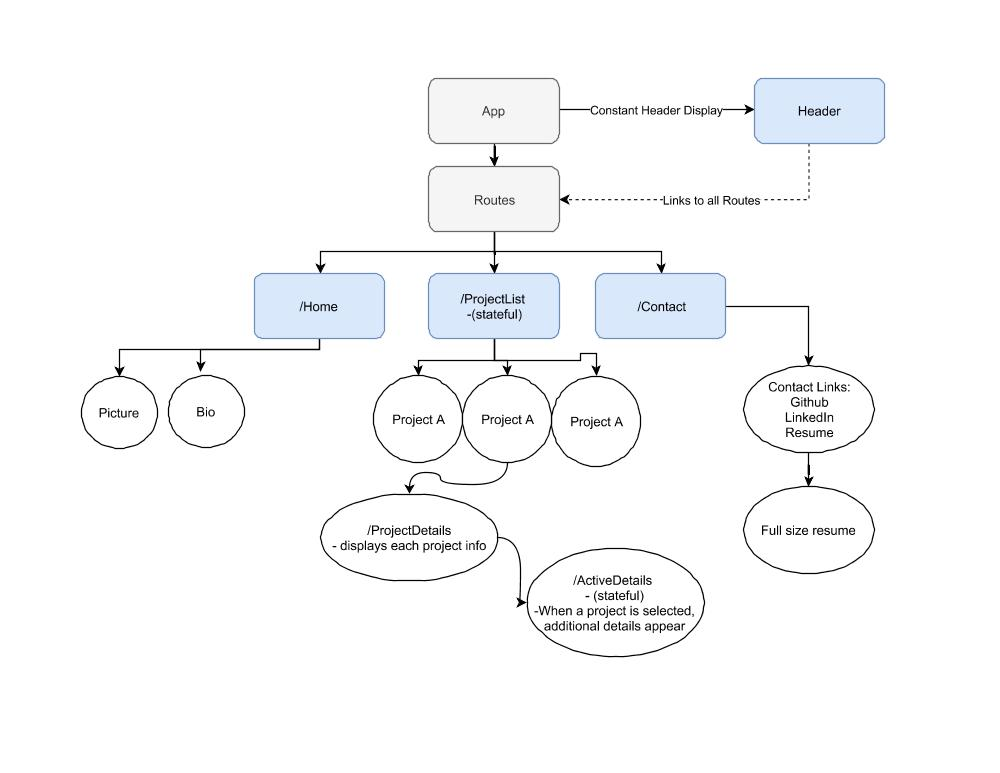
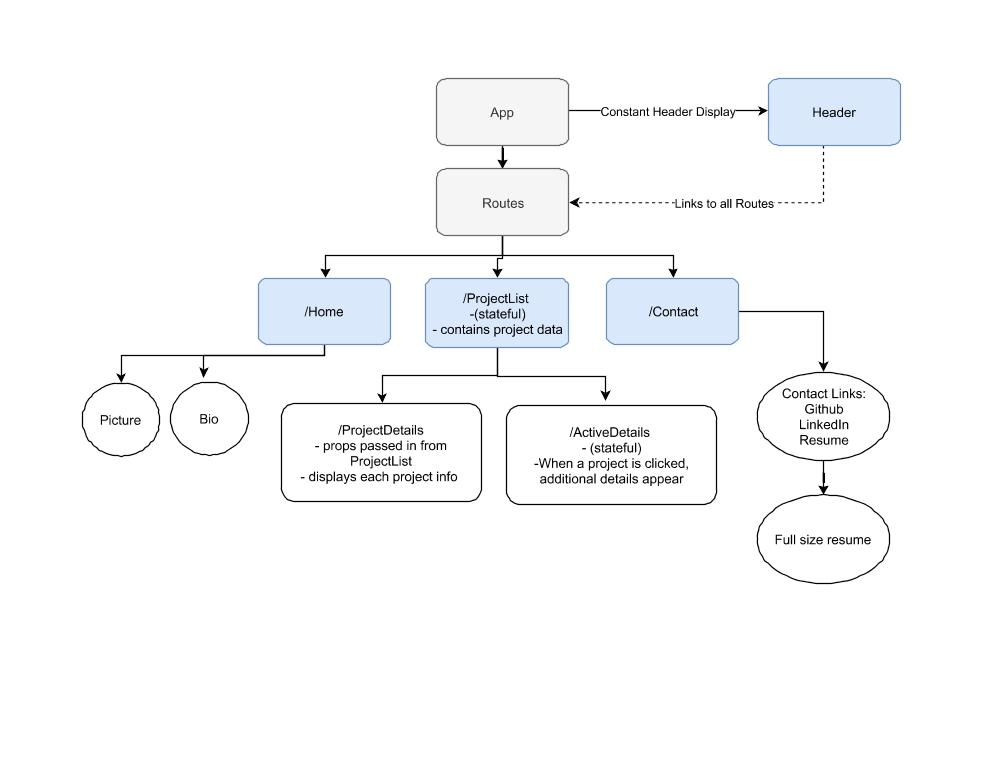
updates to readme and layout diagram

diff --git a/README.md b/README.md
@@ -6,13 +6,16 @@
 
 ## Description
 
-_This coding portfolio displays information about me in 3 categories: Home, Projects, and Contact. It is a single page application using ReactJS._
+_This coding portfolio displays information in 3 categories: Home, Projects, and Contact. It is a single page application using ReactJS._
 
 
 ### Specs
 
 - _Program will display Header on all pages._
 - _Program will use React Routing to navigate between the Home page, Projects page, and Contact page._
+- _Program uses Stateful components where dynamic state changes are needed, such as in the Project details tab._
+- _Program uses static components when states are not needed such as in the Header component._
+- _When a user clicks on a project, a details section will appear below. If the user clicks the preview image, a larger verion of the image will display showing a sample of the specified project._
 - _Program imports images and displays them using base64 encoding._
 - _Program contains external links to Github and LinkedIn profiles._
 
